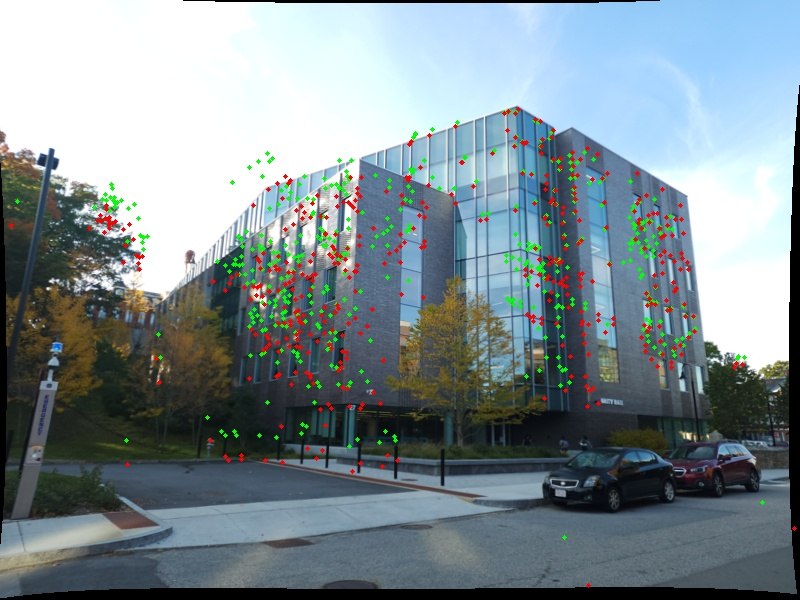
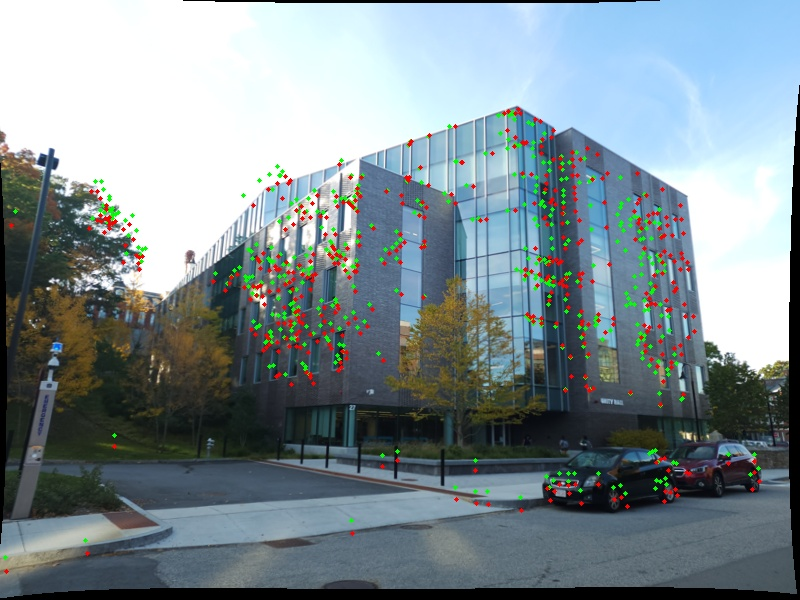
fixed normalized fundamental issue

diff --git a/Phase1/Wrapper3.py b/Phase1/Wrapper3.py
@@ -206,7 +206,7 @@ def get_keypoints_and_matches_for_pair(matches):
 
     for feature in matches:
         pt1 = feature[:2]
-        pt2 = feature[2:]
+        pt2 = feature[2:4]
         # Create KeyPoint objects (using an arbitrary size, e.g., 5)
         keypoint1 = cv2.KeyPoint(x=pt1[0], y=pt1[1], size=5)
         keypoint2 = cv2.KeyPoint(x=pt2[0], y=pt2[1], size=5)
@@ -248,6 +248,8 @@ def refine_all_matches(matches_dict,
     # We'll iterate over each pair in matches_dict
     for (i, j), match_list in matches_dict.items():
         
+        print(f"Refining matches for pair ({i}, {j})...")
+        
         # 1) Apply the outlier rejection
         # Apply outlier rejection
         arr = np.array(match_list)
@@ -258,7 +260,7 @@ def refine_all_matches(matches_dict,
         refined_list = arr[inliers] 
         
         # 2) Store the refined list in a new dictionary
-        refined_matches_dict[(i, j)] = refined_list
+        refined_matches_dict[(i, j)] = F, refined_list
         
         # 3) Find the matches that were deemed outliers
         mask = ~np.isin(arr, refined_list).all(axis=1)
@@ -391,7 +393,7 @@ def visualize_reconstruction(X_all, camera_info):
     plt.show()
     
 
-def triangulate(K, R1, T1, im1, im2, kp1, kp2, dmatches, show=False):
+def triangulate(K, F, R1, T1, im1, im2, kp1, kp2, dmatches, show=False):
     """
     Given two images and their matches, estimate the camera pose and triangulated points.
 
@@ -409,7 +411,11 @@ def triangulate(K, R1, T1, im1, im2, kp1, kp2, dmatches, show=False):
     
     fpts1 = np.array([kp1[m.queryIdx].pt for m in dmatches])
     fpts2 = np.array([kp2[m.trainIdx].pt for m in dmatches])
-    F = estimate_fundamental_matrix(fpts1, fpts2)
+    # F = estimate_fundamental_matrix(fpts1, fpts2)
+    
+    # print("ahhh")
+    # print(F)
+    # raise Exception
 
     if show:
         print("Estimated fundamental matrix F:")
@@ -423,6 +429,7 @@ def triangulate(K, R1, T1, im1, im2, kp1, kp2, dmatches, show=False):
     pose = get_camera_pose(E)
     if show:
         print(f"Camera pose {pose}")
+        
 
     # For each possible pose
     triangulated_points = []
@@ -437,6 +444,7 @@ def triangulate(K, R1, T1, im1, im2, kp1, kp2, dmatches, show=False):
         triangulated_points.append(points_3d)
 
     X_final, C_final, R_final = chirality_condition(triangulated_points, pose)
+    
     # print("triangulated points:", triangulated_points)
     print("length of triangulated points:", len(triangulated_points))
     
@@ -631,9 +639,10 @@ def main():
     # Get the first two images and their matches
     img1 = images[0]
     img2 = images[1]
-    matches = refined_matches[(1, 2)]
+    F12, matches = refined_matches[(1, 2)]
     
     kp1, kp2, dmatches = get_keypoints_and_matches_for_pair(matches)
+    display_matches(img1, img2, kp1, kp2, dmatches)
     # Triangulate
     camera_info = {
         1: {
@@ -641,7 +650,7 @@ def main():
             'C': np.zeros((3, 1)),
         }
     }
-    C, R, X12 = triangulate(K, camera_info[1]['R'], camera_info[1]['C'], img1, img2, kp1, kp2, dmatches, show=True)
+    C, R, X12 = triangulate(K, F12, camera_info[1]['R'], camera_info[1]['C'], img1, img2, kp1, kp2, dmatches, show=True)
     camera_info[2] = {'R': R, 'C': C}
     
     fIdx_to_3D = {}
@@ -701,7 +710,7 @@ def main():
                 print(f"No matches for pair {pair_key}. Skipping.")
                 continue
             
-            matches = refined_matches[pair_key]
+            F, matches = refined_matches[pair_key]
             kp1, kp2, dmatches = get_keypoints_and_matches_for_pair(matches)
             
             # Triangulate
@@ -710,7 +719,7 @@ def main():
             if C1 is None or R1 is None:
                 print(f"  Could not find camera pose for image {j}. Skipping.")
                 continue
-            _, _, Xnew = triangulate(K, R1, C1, img1, img2, kp1, kp2, dmatches, show=False)
+            _, _, Xnew = triangulate(K, F, R1, C1, img1, img2, kp1, kp2, dmatches, show=False)
             
             
             # Each row in Xnew corresponds to matches[idx], which is (u_j,v_j, u_i,v_i, f_idx)

diff --git a/Phase1/Wrapper.py b/Phase1/Wrapper.py
@@ -251,8 +251,8 @@ def visualize_3d_points(X_final, C_final, X_optimized=None,  title="3D Points Vi
 
 def main():
     # Set data folder and number of images
-    path = "D:/Computer vision/Homeworks/5. Project 2 - Phase1/YourDirectoryID_p2 (1)/YourDirectoryID_p2/Phase1/P2Data/P2Data"
-    #path = "Data"
+    # path = "D:/Computer vision/Homeworks/5. Project 2 - Phase1/YourDirectoryID_p2 (1)/YourDirectoryID_p2/Phase1/P2Data/P2Data"
+    path = "Data"
     num_imgs = 5
 
     # Load images (which are already undistorted and resized to 800x600px)
@@ -260,8 +260,8 @@ def main():
     if len(images) < 2:
         print("Need at least two images to match.")
         return
-    path2 = "D:/Computer vision/Homeworks/5. Project 2 - Phase1/YourDirectoryID_p2 (1)/YourDirectoryID_p2/Phase1/P2Data/P2Data"
-    #path2 = "Data"
+    # path2 = "D:/Computer vision/Homeworks/5. Project 2 - Phase1/YourDirectoryID_p2 (1)/YourDirectoryID_p2/Phase1/P2Data/P2Data"
+    path2 = "Data"
 
     # Load camera calibration parameters (intrinsic matrix K) if needed
     calib_file = os.path.join(path2, "calibration.txt")
@@ -295,6 +295,8 @@ def main():
 
     print("Estimated fundamental matrix F:")
     print(F)
+    
+    raise Exception
 
     # Display the inlier matches using cv2.drawMatches
     inlier_matches = [dmatches[i] for i in inliers]
@@ -353,8 +355,9 @@ def main():
     X_final = np.array(triangulated_points[best_pose_idx])
     C_final = pose[best_pose_idx][0].reshape(3,1)
     R_final = pose[best_pose_idx][1]
-    print("triangulated points:", triangulated_points)
+    # print("triangulated points:", triangulated_points)
     print("length of triangulated points:", len(triangulated_points))
+
 
    #  # Linear triangulation
    #  # Rotation and translation of base frame
